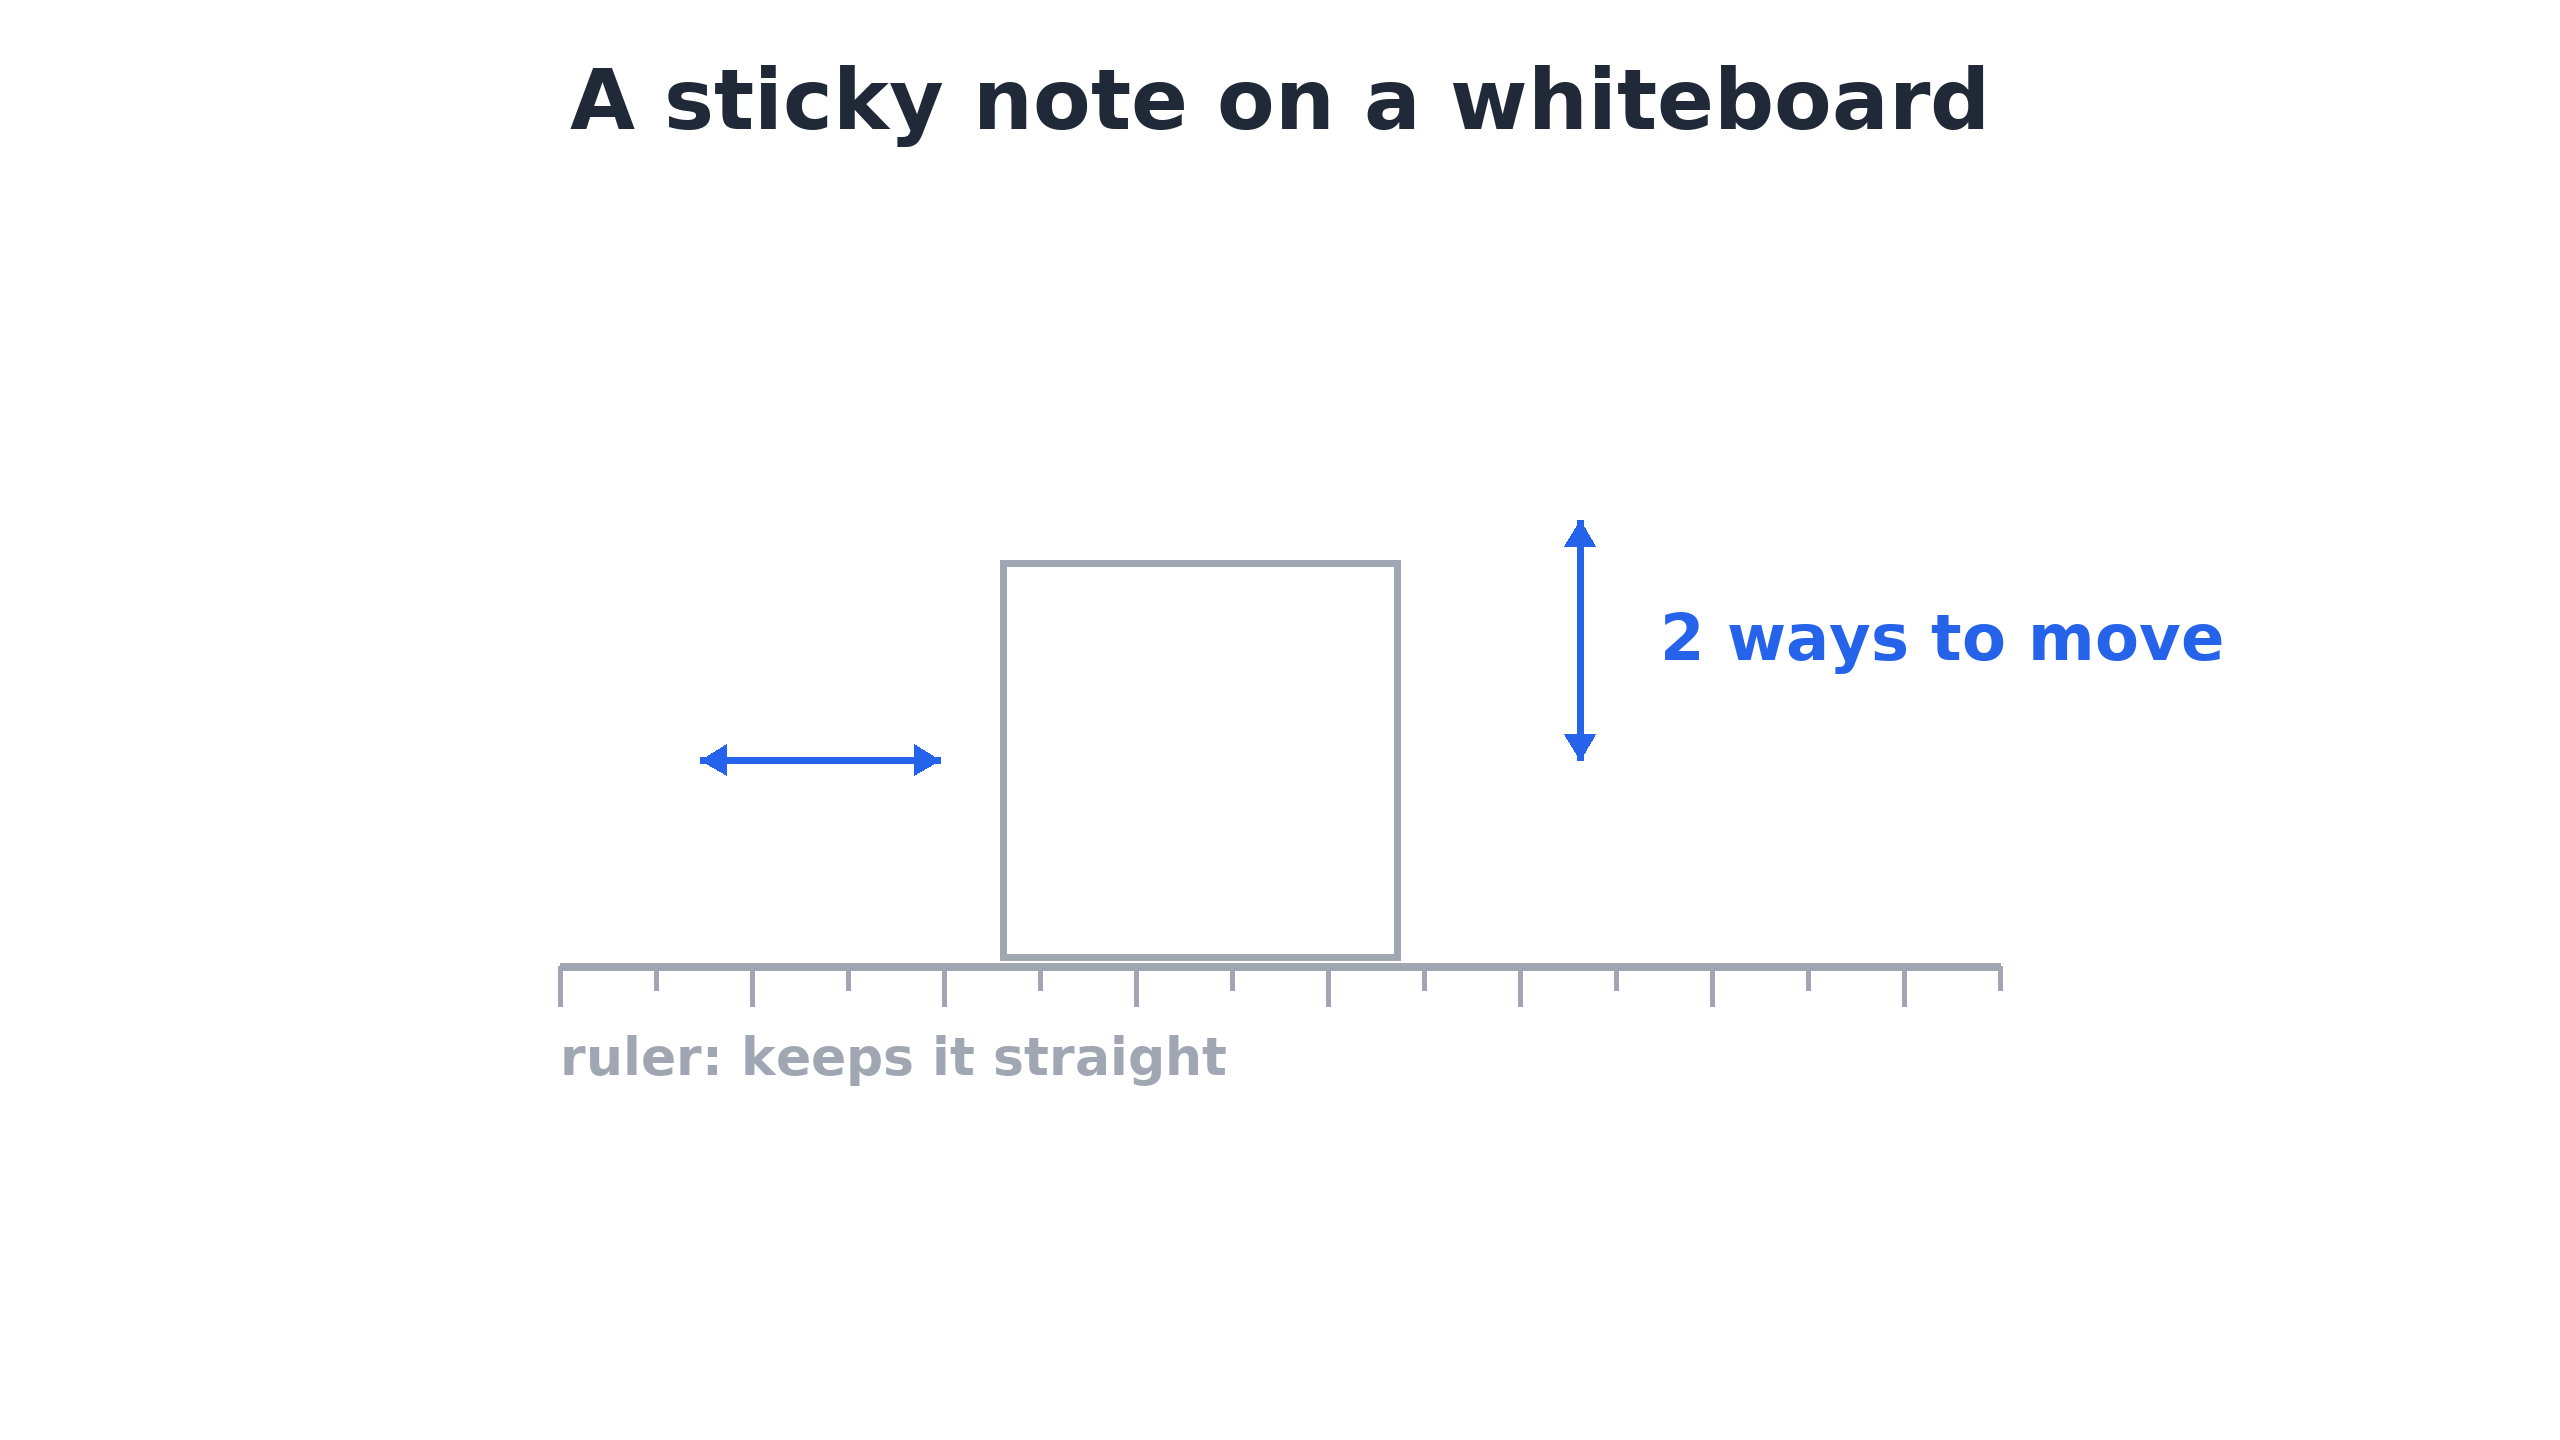
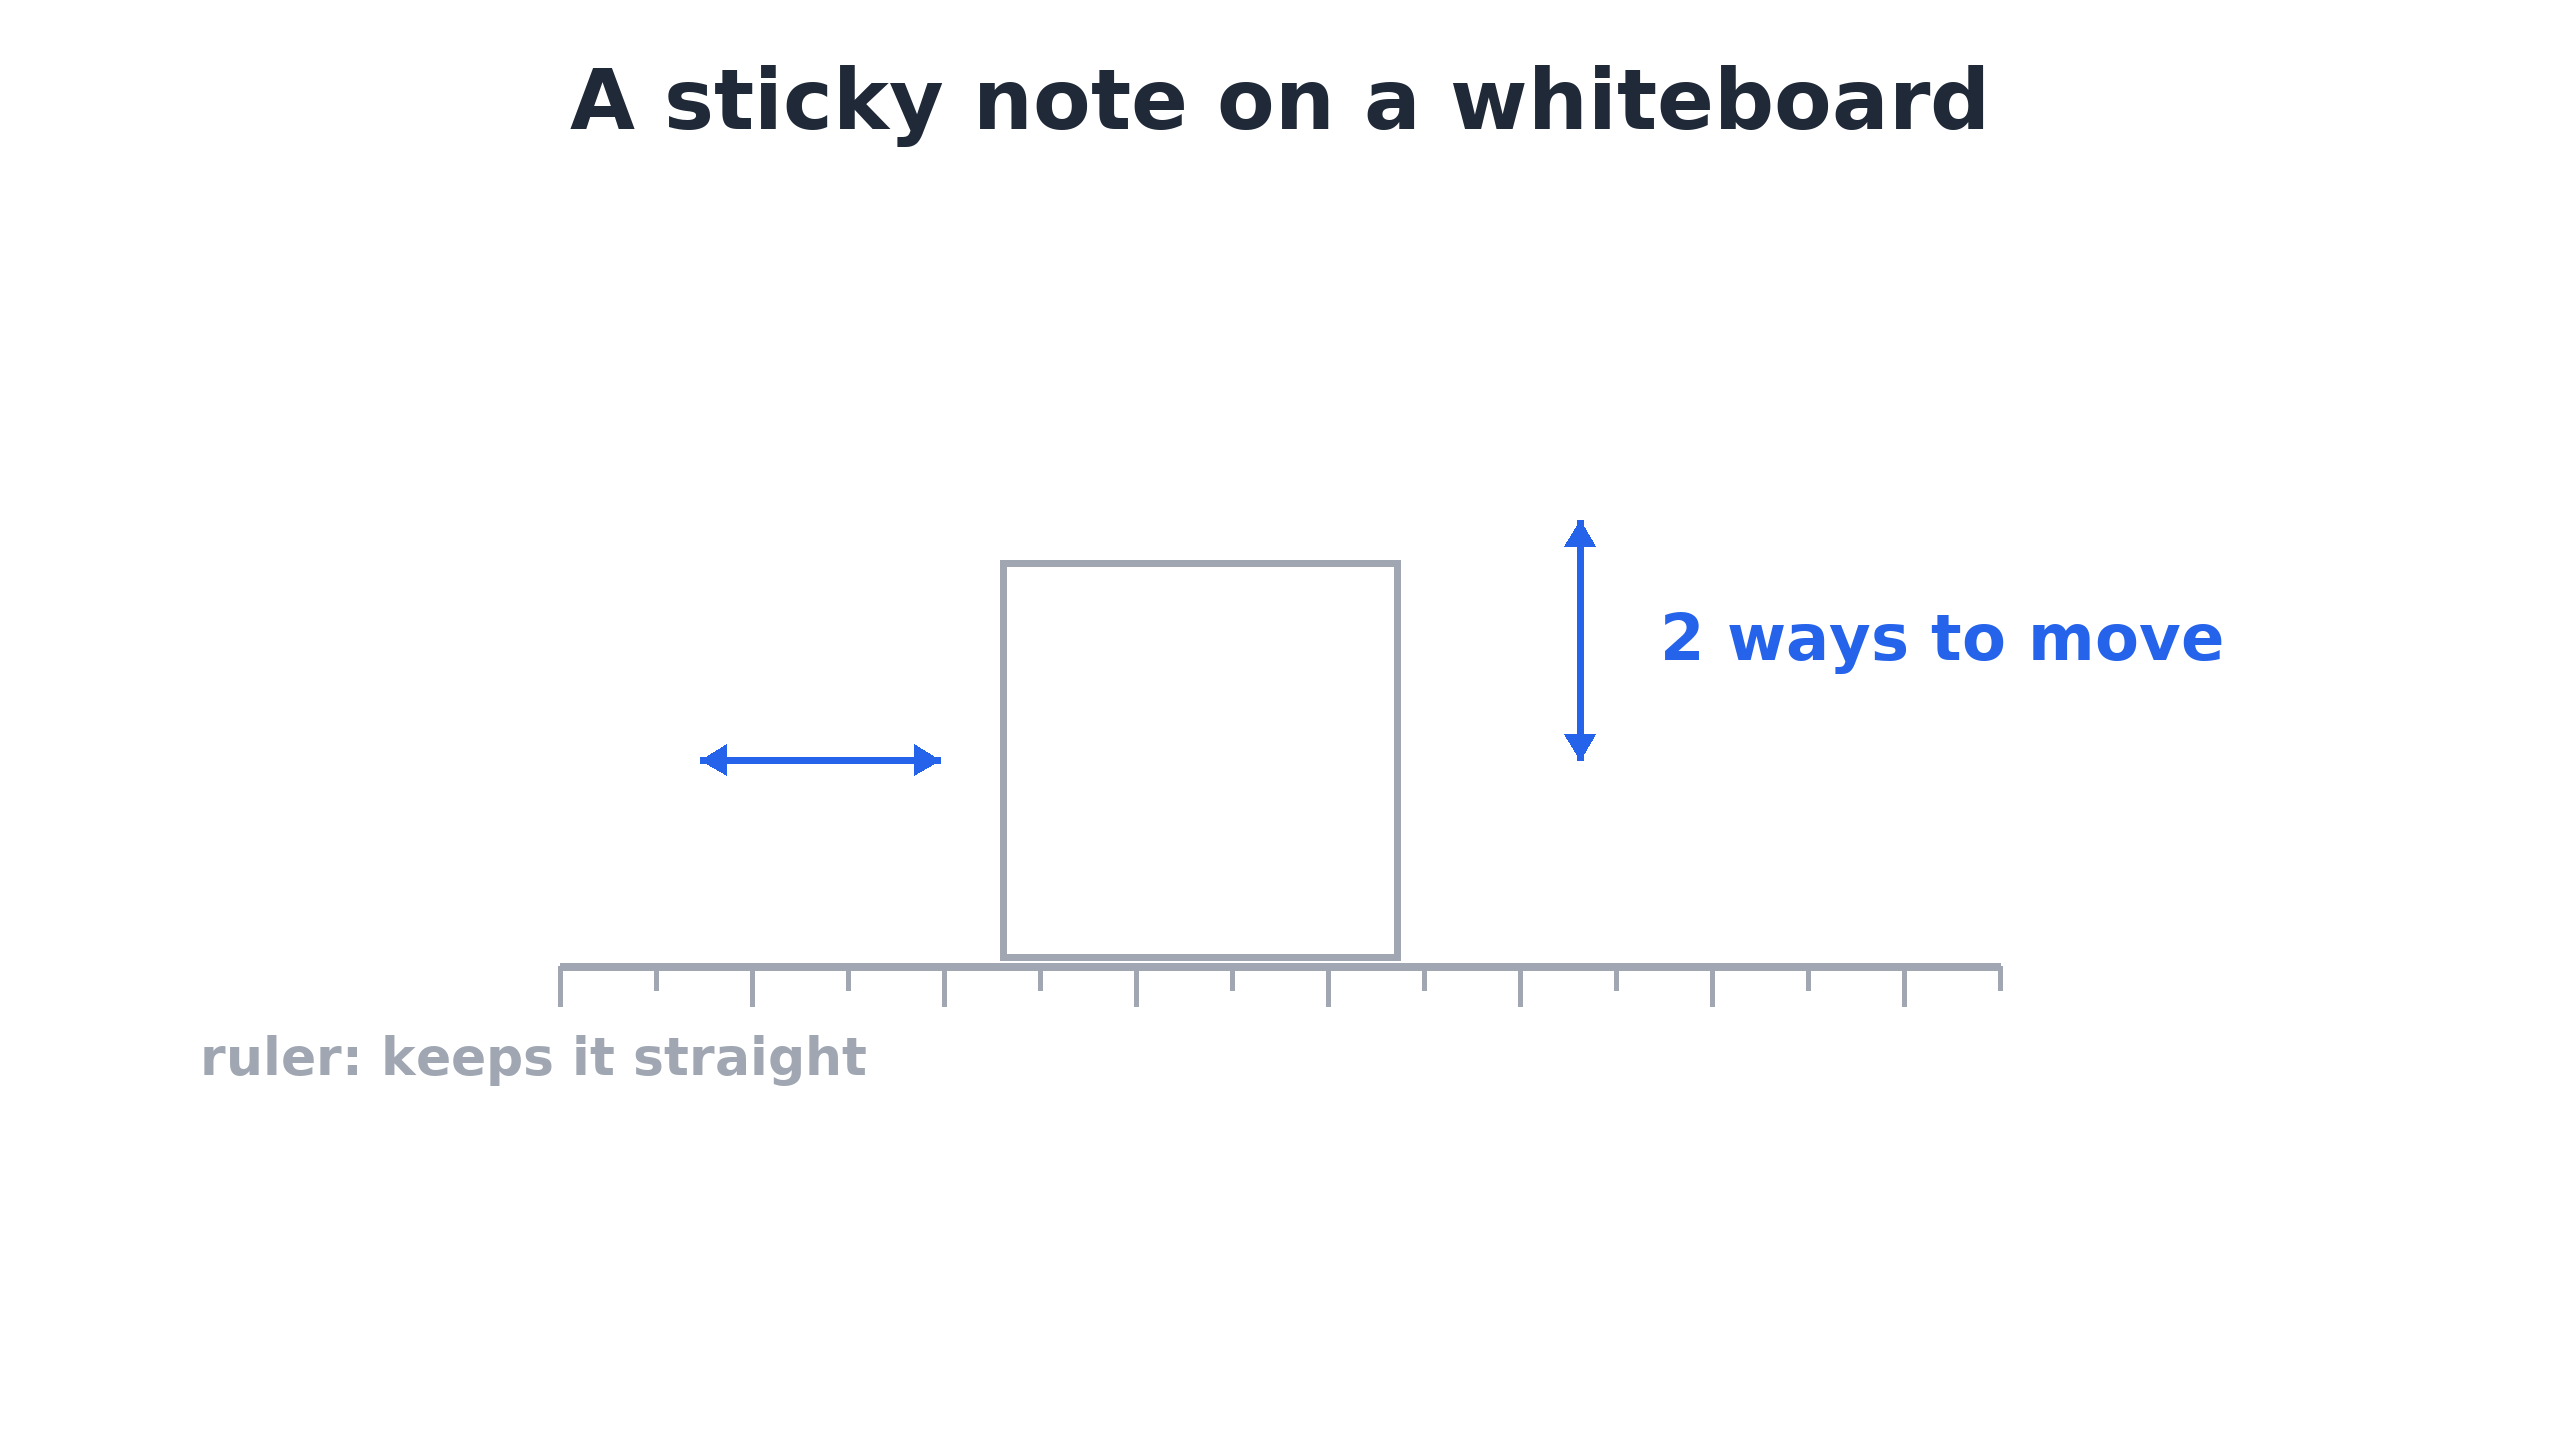
fc10 cut 3 cards (WATCH-fc10-cut2): ruler tag clear of the bottom arrow; Short meas rect below the heading
card-note-1..5: "ruler: keeps it straight" at x 200 (RULER_TAG_XY), left of the note's column (the build-3 "bottom
down" arrow and dashed line at x 1000-1400 ran through it). SHORT_MEAS_R from y 640 (= shorts-footage-fc10.py
RECTS['meas']: the 444 px width cut the "Measurement" heading to "surement"); ov-short-* unchanged. Test red first,
then 13 pass.

Claude-Session: https://claude.ai/code/session_01BKaTygt8SZ8KFbKC6u8tGA

Changed region(s): [[0.0625, 0.7188, 0.5, 0.75]]

diff --git a/video/draw_fc10.py b/video/draw_fc10.py
@@ -52,7 +52,8 @@ CC_SAVE = (40, 1625, 1110, 80)      # the input row's text (the greyed "save the
 FULL_PX, FULL_K = 56, 0.8           # full window: 2880 + 2 x 160 pad = 3200 -> 2560
 SMALL_PX, SMALL_K = 24, 2560 / 704  # the Measurement / message zoom: 704 px wide
 SHORT_PX, SHORT_K = 32, 1080 / 444  # cut 2: the Short's close-up rect 444 px wide (was 30 px in 690: too small)
-SHORT_MEAS_R = [2286, 580, 444, 444]   # = shorts-footage-fc10.py RECTS['meas'] (the Result values x ~2303-2715)
+SHORT_MEAS_R = [2286, 640, 444, 444]   # = shorts-footage-fc10.py RECTS['meas'] (the Result values x ~2303-2715; cut 3:
+#                                         from y 640, below the "Measurement" heading the 444 px width cut to "surement")
 SHORT_MSG_R = [2190, 600, 484, 484]    # = RECTS['msg'] (the message x 2196-2666)
 SHORT_MEAS_XY = (2300, 806)            # under the Result row, left-aligned with its values
 SHORT_MSG_XY = (2200, 790)             # under the solver message
@@ -112,6 +113,9 @@ def pin(d, x, y, col, r=22):
     d.line((x, y + r, x, y + r + 40), fill=col, width=7)
 
 
+RULER_TAG_XY = (200, 60)   # cut 3: left of the note's column (x 1000-1400: the build-3 arrow + dashed line ran through it)
+
+
 # --- F2: the sticky note -------------------------------------------------------------------------------------------------
 def card_note(step):
     """1 a square note on a whiteboard against a ruler, 2 arrows: 2 ways to move, 3 taller with no pin: top up? bottom
@@ -126,7 +130,7 @@ def card_note(step):
     for i in range(16):
         x = 560 + i * 96
         d.line((x, ry, x, ry + (40 if i % 2 == 0 else 24)), fill=c1, width=5)
-    text(d, (560, ry + 60), 'ruler: keeps it straight', 52, c1)
+    text(d, (RULER_TAG_XY[0], ry + RULER_TAG_XY[1]), 'ruler: keeps it straight', 52, c1)
     if step >= 2:
         c2 = BLUE if step == 2 else DONE
         biarrow(d, x0 - 300, 760, x0 - 60, 760, c2)

diff --git a/tests/test_draw_fc10.py b/tests/test_draw_fc10.py
@@ -189,3 +189,13 @@ def test_cut2_redaction_box_restored_after_the_header(drawn):
         assert line[(600 - d.TERM_X0) // d.TERM_COL + 1:][:len(want)] == want, run
         ink = [im.getpixel((x, y)) for x in range(603, 918) for y in range(125, 165)]
         assert sum(1 for p in ink if p[0] < 160) > 400, run           # the words are drawn
+
+
+def test_cut3_ruler_tag_clear_of_the_bottom_arrow():
+    """Cut 3 (WATCH-fc10-cut2: the "bottom down" arrow and dashed line (x 1000-1400 from build 3) ran through "ruler:
+    keeps it straight"): the tag sits left of the note's column, its right edge 40 px+ short of x 1000."""
+    from PIL import ImageFont
+    f = ImageFont.truetype(d.b.B, 52)
+    x = d.RULER_TAG_XY[0]
+    assert x + f.getlength('ruler: keeps it straight') <= 1000 - 40
+    assert x >= d.SAFE[0]
